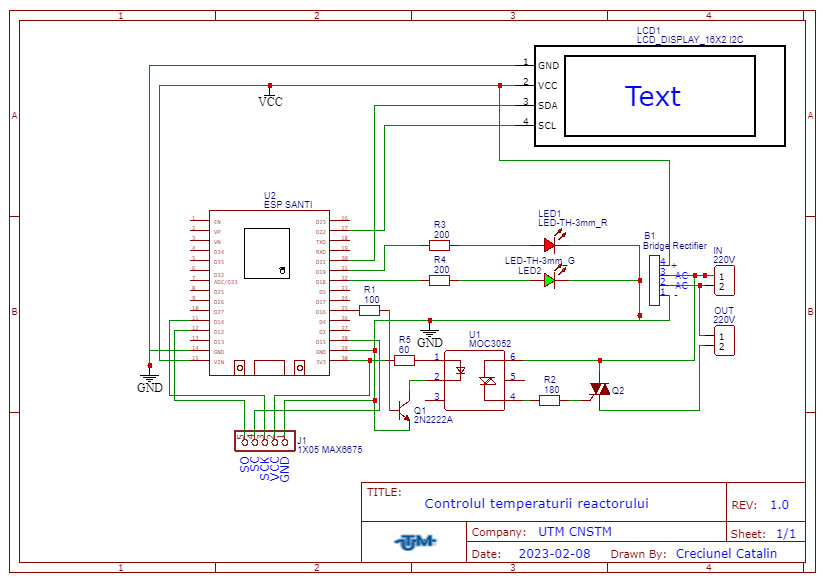
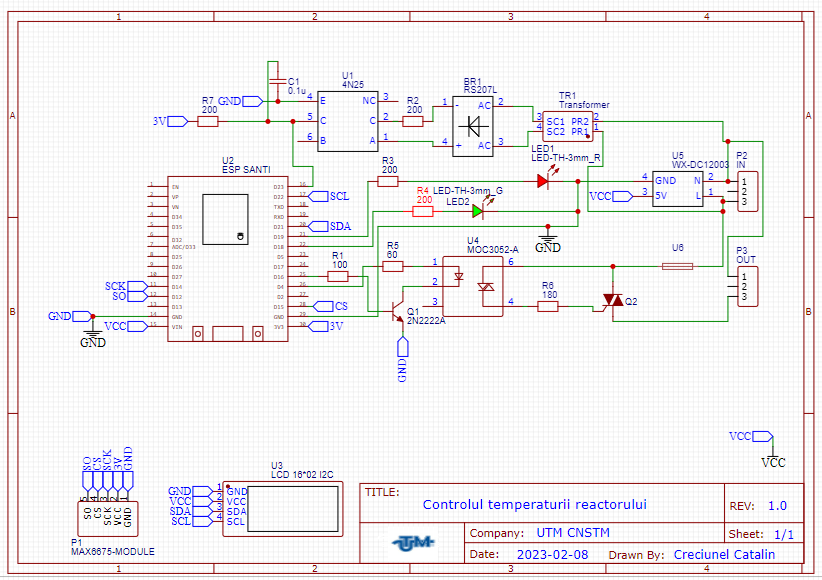
-ed
edit description

Changed region(s): [[0.0, 0.0, 1.0, 1.0], [0.8212, 0.6828, 0.8516, 0.7138]]

diff --git a/README.md b/README.md
@@ -1,4 +1,7 @@
 # Temocontroler-on-ESP32-using-MAX6675
 
- 2 App created for control via Bluetooth and USB<br>
-<img src="thermocontrol.png" width="600" title="ultrasonic generator" align="center">
+    This device is made for control a load conenected to 220V<br>
+<img src="thermocontrol.png" width="600" title="ultrasonic generator" align="center"><br>
+    Device can read and set power also have app for using via USB from PC or Bluetooth and another program for web interface
+    Circuit is created luking at case form and size 
+<img src="thermocontrolFootprint.png.png" width="600" title="ultrasonic generator" align="center"><br>
